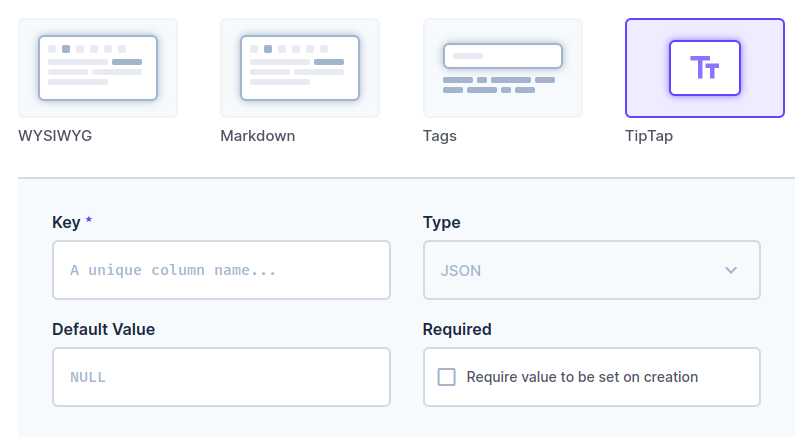
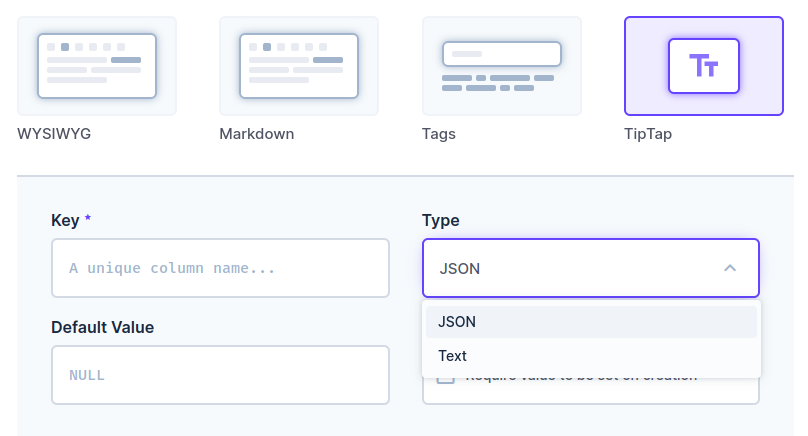
feat: allow to store content as HTML string #4

diff --git a/src/tiptap-editor.vue b/src/tiptap-editor.vue
@@ -54,33 +54,44 @@
 </style>
 
 <script setup lang="ts">
-import { Editor, EditorContent, JSONContent } from "@tiptap/vue-3";
+import { Editor, EditorContent, HTMLContent, JSONContent } from "@tiptap/vue-3";
 import StarterKit from "@tiptap/starter-kit";
 import { onBeforeUnmount, watch } from "vue";
 
+type ValueType = "json" | "text";
+
 const props = withDefaults(
   defineProps<{
-    value: JSONContent | null;
+    value: JSONContent | HTMLContent | null;
+    type: ValueType;
   }>(),
   { value: null }
 );
 
 const emit = defineEmits<{
-  (e: "input", value: JSONContent): void;
+  (e: "input", value: JSONContent | HTMLContent): void;
 }>();
 
 const editor = new Editor({
   content: props.value,
   extensions: [StarterKit],
   onUpdate: () => {
-    emit("input", editor.getJSON());
+    switch (props.type) {
+      case "json":
+        emit("input", editor.getJSON());
+        break;
+      case "text":
+        emit("input", editor.getHTML());
+        break;
+    }
   },
 });
 
 watch(
   () => props.value,
   (value) => {
-    const isSame = JSON.stringify(editor.getJSON()) === JSON.stringify(value);
+    const isSame =
+      props.type === "json" ? JSON.stringify(editor.getJSON()) === JSON.stringify(value) : editor.getHTML() === value;
 
     if (isSame) {
       return;

diff --git a/src/index.ts b/src/index.ts
@@ -7,7 +7,7 @@ export default defineInterface({
   icon: "text_fields",
   description: "Tip Tap editor",
   component: TiptapEditor,
-  types: ["json"],
+  types: ["json", "text"],
   group: "standard",
   options: null,
 });

diff --git a/README.md b/README.md
@@ -6,7 +6,7 @@
 
 This is a [Directus](https://directus.io/) extension that provides the [Tiptap](https://tiptap.dev/) editor as a rich text field type.
 
-For now, it only includes the [StarterKit](https://tiptap.dev/api/extensions/starter-kit) tiptap bundle. 
+For now, it only includes the [StarterKit](https://tiptap.dev/api/extensions/starter-kit) tiptap bundle.
 
 - npm package : `@bicou/directus-extension-tiptap`
 - [✨ &nbsp;Release Notes](/CHANGELOG.md)
@@ -17,7 +17,7 @@ This extension requires Directus 9 or higher to be installed.
 
 ## Installation
 
-Add `@bicou/directus-extension-tiptap` dependency to your directus project
+Add `@bicou/directus-extension-tiptap` dependency to your directus project.
 
 ```bash
 # Using pnpm
@@ -30,22 +30,24 @@ npm install @bicou/directus-extension-tiptap
 
 ## Usage
 
-When creating a field in Directus choose TipTap
+When creating a field in Directus choose TipTap.
 
 ![field creation](docs/field.png)
 
-The value of the field is the JSON representation of [ProseMirror](https://prosemirror.net/) nodes.
+Choosing **Type** allows you to store your content as a JSON object or as a good old HTML string
+
+- _JSON_ : the JSON object of the [ProseMirror](https://prosemirror.net/) nodes
+- _Text_ : the HTML content as string
 
 ## License
 
 This extension is released under the MIT license. See the LICENSE file for more details.
 
 <!-- Badges -->
+
 [npm-version-src]: https://img.shields.io/npm/v/@bicou/directus-extension-tiptap/latest.svg?style=flat&colorA=18181B&colorB=28CF8D
 [npm-version-href]: https://npmjs.com/package/@bicou/directus-extension-tiptap
-
 [npm-downloads-src]: https://img.shields.io/npm/dm/@bicou/directus-extension-tiptap.svg?style=flat&colorA=18181B&colorB=28CF8D
 [npm-downloads-href]: https://npmjs.com/package/@bicou/directus-extension-tiptap
-
 [license-src]: https://img.shields.io/npm/l/@bicou/directus-extension-tiptap.svg?style=flat&colorA=18181B&colorB=28CF8D
 [license-href]: https://npmjs.com/package/@bicou/directus-extension-tiptap
